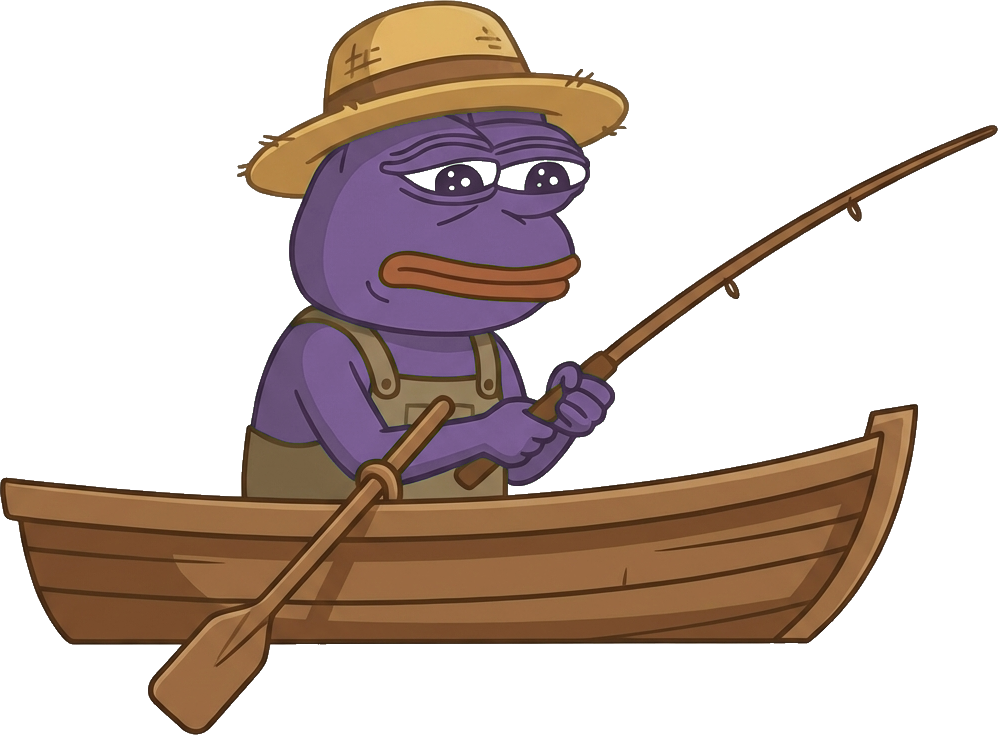
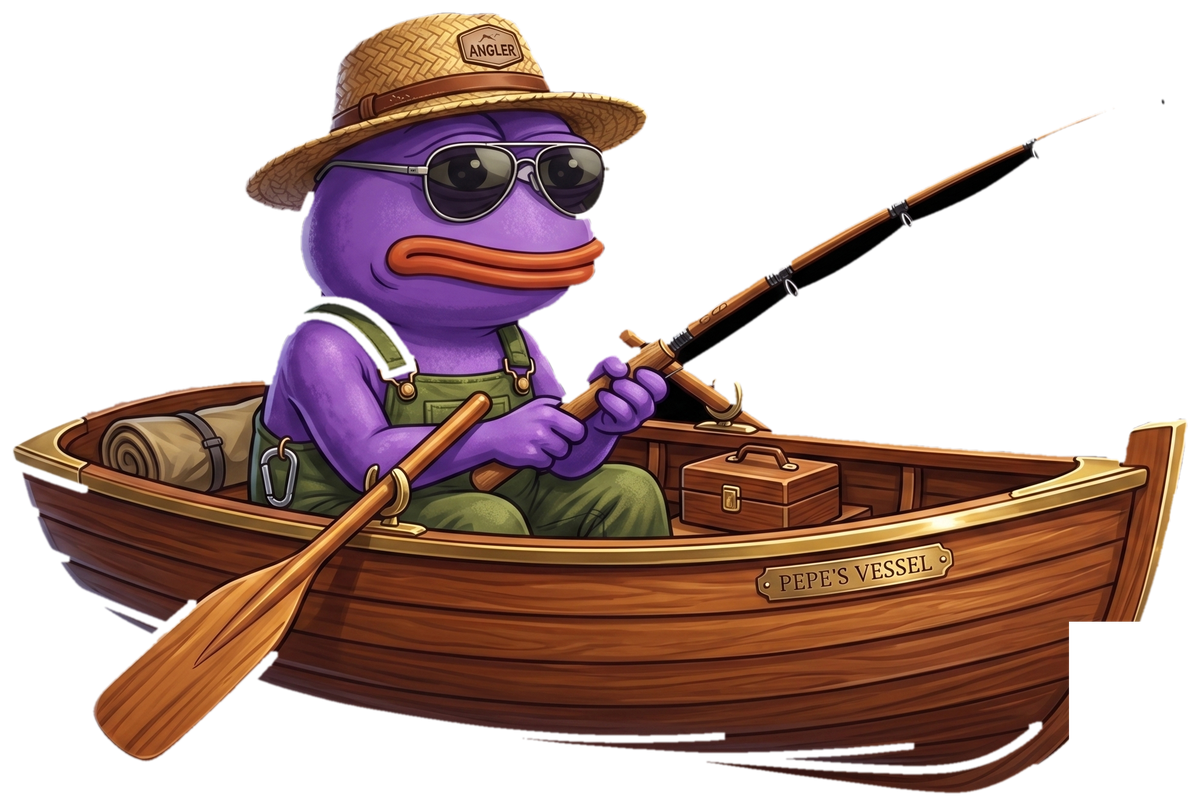
feat(assets): replace lake pepe fisherman

diff --git a/src/components/game/MonadFishCanvas.tsx b/src/components/game/MonadFishCanvas.tsx
@@ -376,8 +376,8 @@ const MonadFishCanvas: React.FC<MonadFishCanvasProps> = ({ onCast, gameState, la
                 // Кончик удочки — вычисляем с учётом поворота лодки
                 const cx = boatX + boatDrawW / 2;
                 const cy = boatY + boatDrawH / 2;
-                const localRodX = boatDrawW * 0.493;
-                const localRodY = -boatDrawH * 0.323;
+                const localRodX = boatDrawW * 0.47;
+                const localRodY = -boatDrawH * 0.374;
                 const cosR = Math.cos(rockAngle), sinR = Math.sin(rockAngle);
                 rodTipX = cx + localRodX * cosR - localRodY * sinR;
                 rodTipY = cy + localRodX * sinR + localRodY * cosR;
@@ -617,8 +617,8 @@ const MonadFishCanvas: React.FC<MonadFishCanvasProps> = ({ onCast, gameState, la
             const boatX = w * 0.04;
             const cx = boatX + boatDrawW / 2;
             const cy = (wl - boatDrawH * 0.62) + boatDrawH / 2;
-            const startX = cx + boatDrawW * 0.493;
-            const startY = cy - boatDrawH * 0.323;
+            const startX = cx + boatDrawW * 0.47;
+            const startY = cy - boatDrawH * 0.374;
             const targetX = w * 0.5 + Math.random() * (w * 0.3);
             const targetY = wl;
 
